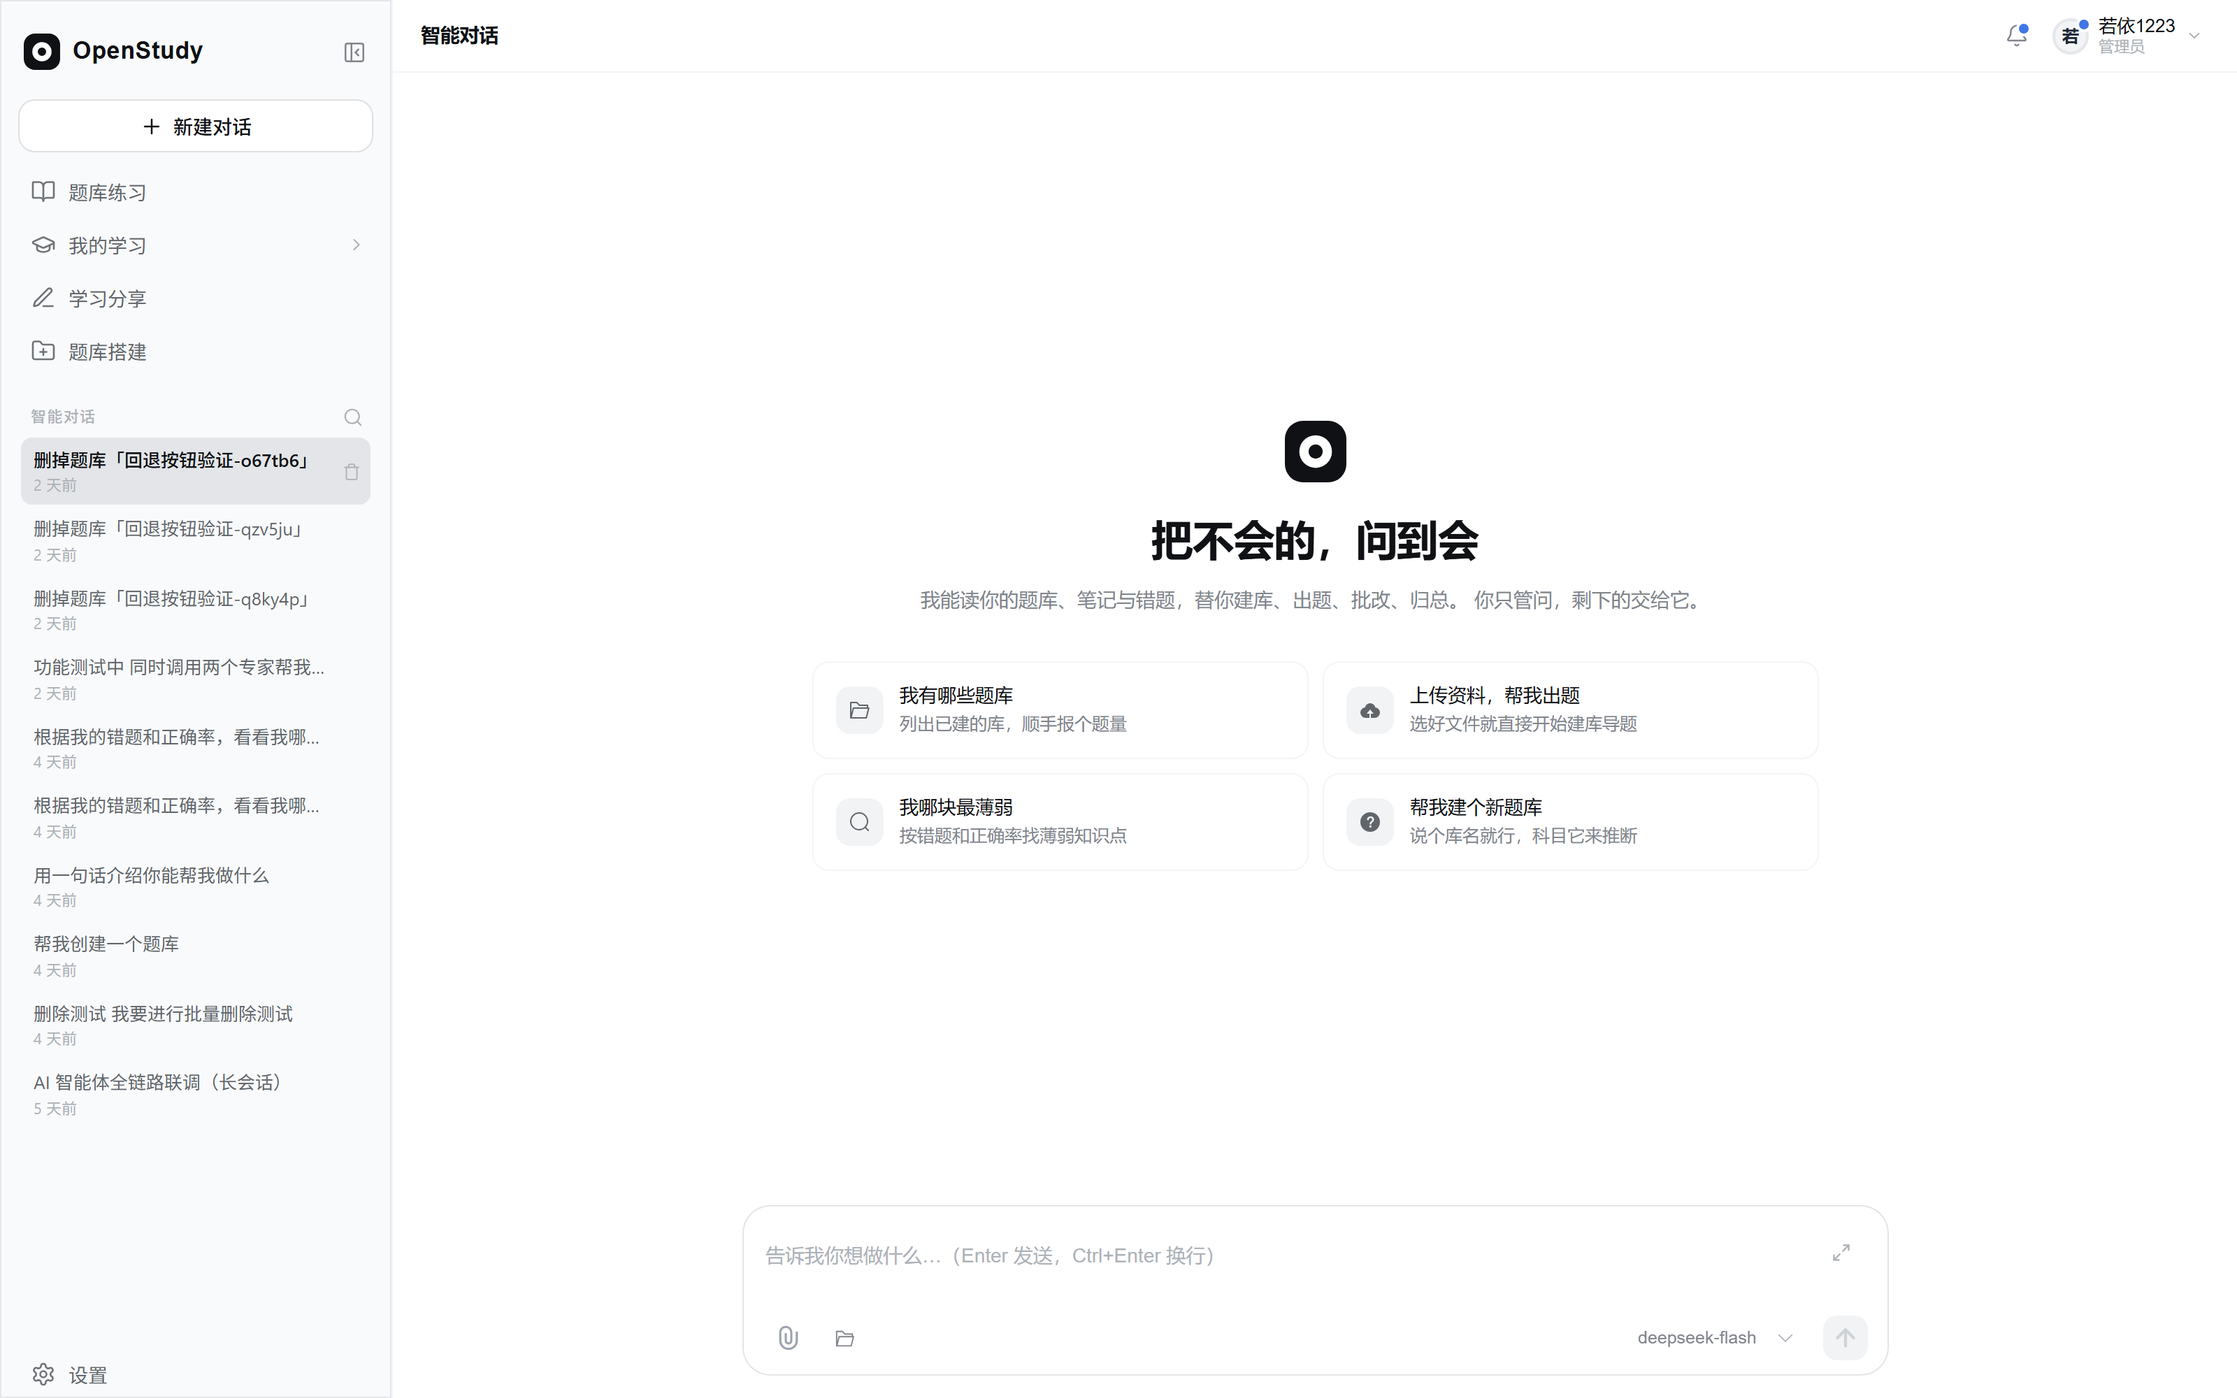
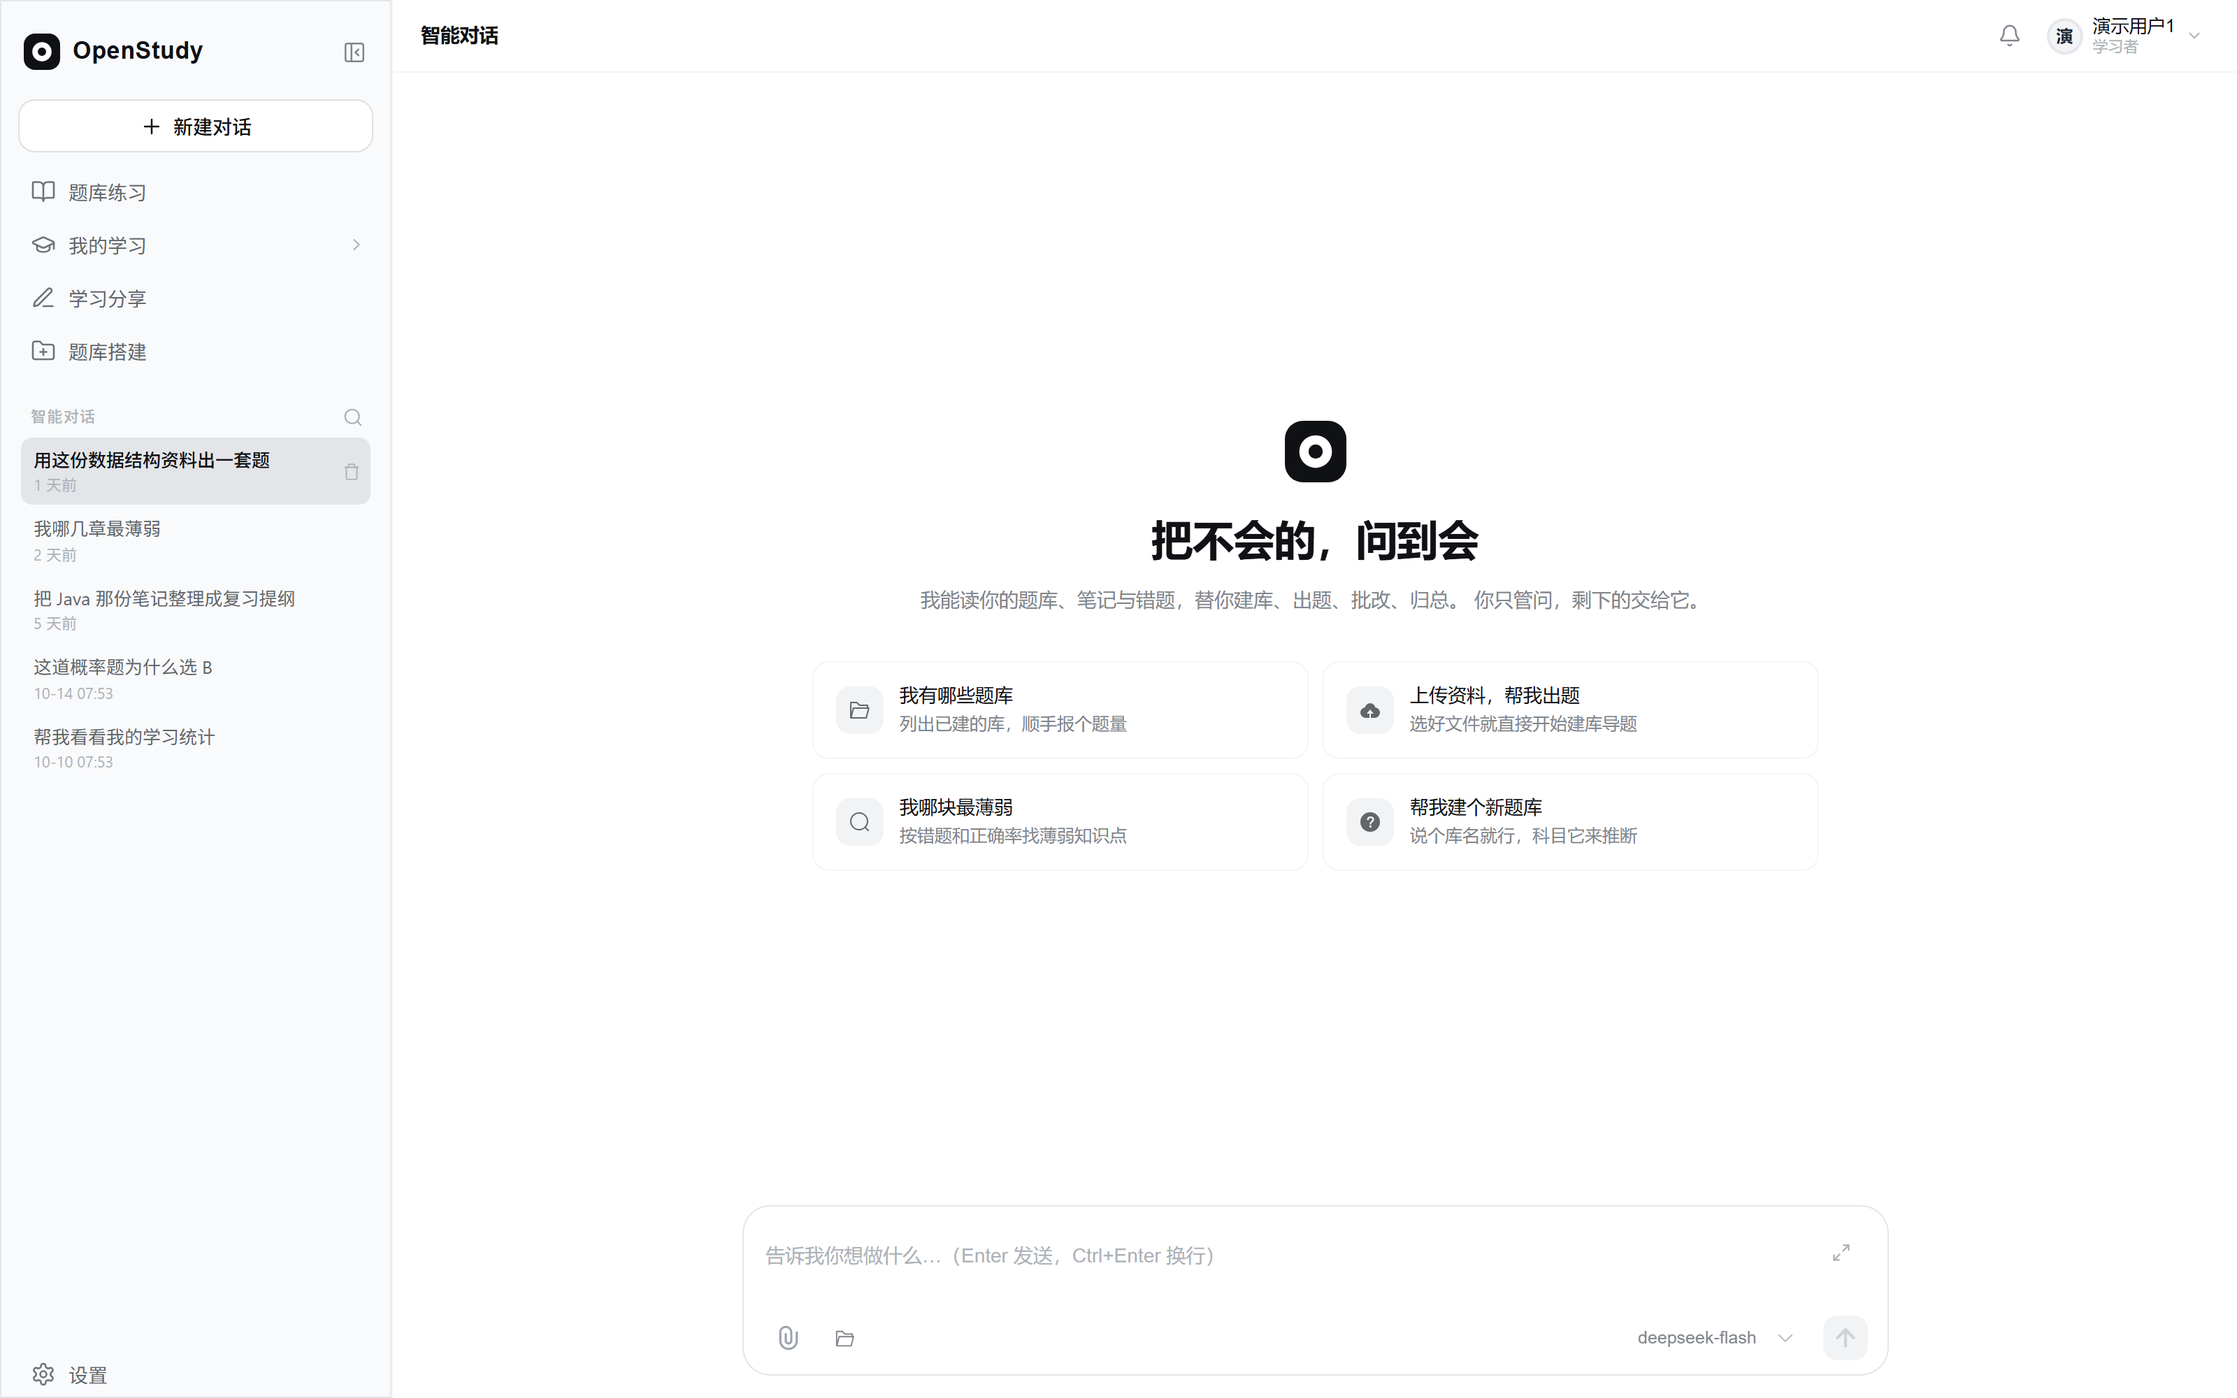
docs: 统一演示账号密码与文档措辞
- 演示账号初始密码统一为 123456（仅本地体验用，正式部署须改）
- README 区分「本地部署」与「公网体验」两种获取方式
- 公网环境不提供演示账号，用户自行注册
- 更新产品截图（演示用户视角，无测试数据）
- 数据库会话与题库命名规范化，清理测试残留

diff --git a/openstudy-vue3-ts/src/views/auth.vue b/openstudy-vue3-ts/src/views/auth.vue
@@ -248,7 +248,7 @@ const loginRules = {
 const codeUrl = ref("");
 const loading = ref(false);
 const captchaEnabled = ref(true);
-// 演示模式：true=显示「演示账号一键登录」入口（自用/答辩）；false=上线体验版，
+// 演示模式：true=显示「演示账号一键登录」入口（自用/演示）；false=上线体验版，
 // 默认走账号密码登录/注册，不暴露演示账号。由后端 /captchaImage 的 demoMode 下发。
 // ⚠ 初始值取 false（安全优先）：接口返回前先按「体验版」渲染，避免闪出一键登录入口。
 const demoMode = ref(false);

diff --git a/openstudy-vue3-ts/src/views/admin/dashboard.vue b/openstudy-vue3-ts/src/views/admin/dashboard.vue
@@ -17,7 +17,7 @@
                     </el-tag>
                 </div>
                 <div class="demo-mode-desc">
-                    开启：登录页显示「演示账号 · 一键登录」入口（自己答辩/演示用）。<br />
+                    开启：登录页显示「演示账号 · 一键登录」入口（自己演示用）。<br />
                     关闭：登录页直接走账号密码登录 / 注册，隐藏演示账号（上线给别人体验用）。
                 </div>
             </div>

diff --git a/openstudy-fastapi/app/api/v1/auth.py b/openstudy-fastapi/app/api/v1/auth.py
@@ -53,7 +53,7 @@ async def captcha_image(db: AsyncSession = Depends(get_db)):
     captcha_config = config_result.scalar_one_or_none()
     captcha_enabled = captcha_config.config_value.lower() == "true" if captcha_config else True
 
-    # 演示模式开关：true=保留「演示账号一键登录」入口（自用/答辩）；
+    # 演示模式开关：true=保留「演示账号一键登录」入口（自用/演示）；
     # false=上线体验版，登录页默认走账号密码登录/注册，不暴露演示账号。
     # ⚠ 与 `/quickLogin` 共用 `_demo_mode_enabled`，避免「前端藏了按钮、接口却仍放行」。
     demo_mode = await _demo_mode_enabled(db)

diff --git a/openstudy-fastapi/tests/_probe_rag_chunks_images.py b/openstudy-fastapi/tests/_probe_rag_chunks_images.py
@@ -44,7 +44,7 @@ def main():
         checks.append((cid, title, cond, actual))
         print(f"  [{'通过' if cond else '失败'}] {cid} {title}" + (f" | {actual}" if not cond else ""))
 
-    st, body = _req("POST", "/login", body={"username": "admin", "password": "***REMOVED***"})
+    st, body = _req("POST", "/login", body={"username": "admin", "password": "123456"})
     token = body.get("data", {}).get("token")
     ck("CI-01", "登录成功", bool(token))
 

diff --git a/openstudy-fastapi/tests/_probe_kb_question_e2e.py b/openstudy-fastapi/tests/_probe_kb_question_e2e.py
@@ -51,7 +51,7 @@ def main():
         checks.append((cid, title, cond, actual))
         print(f"  [{'通过' if cond else '失败'}] {cid} {title}" + (f" | {actual}" if not cond else ""))
 
-    st, body = _req("POST", "/login", body={"username": "admin", "password": "***REMOVED***"})
+    st, body = _req("POST", "/login", body={"username": "admin", "password": "123456"})
     token = body["data"]["token"]
     ck("E-01", "登录成功", bool(token))
 

diff --git a/openstudy-fastapi/tests/_probe_rag_image_store.py b/openstudy-fastapi/tests/_probe_rag_image_store.py
@@ -115,7 +115,7 @@ def main():
         checks.append((cid, title, cond, actual))
         print(f"  [{'通过' if cond else '失败'}] {cid} {title}" + (f" | {actual}" if not cond else ""))
 
-    st, body = _post("/login", body={"username": "admin", "password": "***REMOVED***"})
+    st, body = _post("/login", body={"username": "admin", "password": "123456"})
     token = body["data"]["token"]
     ck("IMG-01", "登录成功", bool(token))
 

diff --git a/openstudy-fastapi/tests/_probe_rag_image_to_model.py b/openstudy-fastapi/tests/_probe_rag_image_to_model.py
@@ -100,7 +100,7 @@ def main():
         checks.append((cid, title, cond, actual))
         print(f"  [{'通过' if cond else '失败'}] {cid} {title}" + (f" | {actual}" if not cond else ""))
 
-    st, body = _post("/login", body={"username": "admin", "password": "***REMOVED***"})
+    st, body = _post("/login", body={"username": "admin", "password": "123456"})
     token = body["data"]["token"]
     ck("Z-01", "登录成功", bool(token))
 

diff --git a/openstudy-fastapi/seed_demo_users.py b/openstudy-fastapi/seed_demo_users.py
@@ -1,6 +1,6 @@
 """演示数据初始化脚本（幂等，可重复执行）
 
-用途：功能演示 / 答辩演示时，快速准备两个普通用户、一个只读游客和一个管理员的演示环境。
+用途：功能演示时，快速准备两个普通用户、一个只读游客和一个管理员的演示环境。
 
 执行：
     cd openstudy-fastapi

diff --git a/README.md b/README.md
@@ -35,7 +35,7 @@ Word/PDF/MD    拆段落·认公式·抠图片    变成题库·标注出处    
 **它不是一个聊天框。** 对话里的每个动作都调用真实工具、写真实数据表——
 你说"用这份资料建个题库，出 10 道题"，它真的会建出来，你能点进去刷。
 
-> 📖 四步各做了什么、代码在哪、答辩怎么讲 → **[doc/CORE-FLOW.md](doc/CORE-FLOW.md)**
+> 📖 四步各自做了什么、代码在哪 → **[doc/CORE-FLOW.md](doc/CORE-FLOW.md)**
 
 ---
 
@@ -103,23 +103,20 @@ Word/PDF/MD    拆段落·认公式·抠图片    变成题库·标注出处    
 ## AI 智能体：会办事，不只是会聊
 
 <p align="center">
-  <img src="doc/screenshots/judge-1-chat.png" width="820" alt="两位专家并行建库 + 写题">
+  <img src="doc/screenshots/02-agent-session.png" width="820" alt="对话式建题库：从资料到 20 道题">
 </p>
 
 - **多专家并行**：一句话要干两件事，两个专家同时开工；只有一件事就不打扰你
-- **写操作先确认**：改数据之前弹确认卡，看清楚再点（下图）
-
-<p align="center">
-  <img src="doc/screenshots/05-write-confirm.png" width="760" alt="写操作二次确认">
-</p>
-
+- **写操作先确认**：改数据之前弹确认卡，看清楚再点
 - **改错能撤回**：题库、题目、分享、智能体四个域支持整树快照恢复；回退不了的会明确告诉你
 - **跨会话记忆**：记住你做过的操作，下次接着聊
 - **14 个工具**：题库管理、题目管理、笔记、知识库、检索、学情统计、记忆、导出…
 
 ---
 
-## 30 秒跑起来
+## 快速开始
+
+### 方式一：本地部署（Docker，推荐自建）
 
 ```bash
 git clone https://gitcode.com/qi142410131/openstudy-fastapi-ts.git
@@ -127,17 +124,27 @@ cd openstudy-fastapi-ts
 docker compose up -d --build
 ```
 
-浏览器打开 **http://localhost:3167**，登录页点「一键登录」即可。
+浏览器打开 **http://localhost:3167**。
+
+**本地部署的演示账号**（数据库首次启动自动创建）：
 
 | 账号 | 密码 | 说明 |
 |---|---|---|
-| `user1` | `***REMOVED***` | 演示用户，带题库 / 笔记 / 学习统计 |
-| `user2` | `***REMOVED***` | 分享接收方 |
+| `admin` | `123456` | 管理员，可进后台 |
+| `user1` | `123456` | 演示用户，带题库 / 笔记 / 学习统计 |
+| `user2` | `123456` | 分享接收方 |
 | `guest` | 免密一键登录 | 只读游客 |
-| `admin` | `***REMOVED***` | 管理员（可进后台） |
 
-> 以上为**演示账号**，仅用于体验与评审。正式部署请到「系统管理 → 用户管理」改密码，
-> 并同步修改 `deploy/db-init/05_change_password.sql`。
+> ⚠ 以上密码**仅适用于本地自建环境**，且仅用于快速体验。
+> **正式对外部署前必须修改**：改 `deploy/db-init/05_change_password.sql` 里的初始密码，
+> 并同步修改 `openstudy-fastapi/.env` 的 `JWT_SECRET`。
+
+### 方式二：公网体验环境
+
+公网演示环境**不提供任何账号密码**——请自行**注册**后登录体验。
+
+> 出于安全考虑，线上环境不开放演示账号，也不对外公布任何凭据。
+> 注册后你会得到一个独立账号，可以完整走通「上传资料 → 自动解析 → 建题库 → 刷题」全流程。
 
 > 数据库首次启动会自动建表 + 导种子数据，无需手动操作。
 > **不配 AI Key 也能跑**——除 AI 对话和知识库外，其余功能全部可用。
@@ -207,7 +214,7 @@ openstudy-fastapi-ts/
 │   ├── deploy/                 # 部署说明
 │   ├── dev-process/            # 开发过程记录（码道）
 │   ├── testing/                # 接口测试用例
-│   └── competition/            # 参赛材料
+│   └── competition/            # 项目材料
 └── docker-compose.yml          # 一键部署
 ```
 

diff --git a/doc/dev-process/memory/project-gitcode-publish-status.md b/doc/dev-process/memory/project-gitcode-publish-status.md
@@ -52,7 +52,7 @@ from: Agent
 - 用户被问及是否把 README 也补推到 `delivery` 分支。
 
 **追加发布（2026-10-09）：README + .env.example 到 main**
-- 新增根目录 `README.md`（基于实际代码结构、运行方式与配置说明，**脱敏**，用环境变量占位）——对应赛事"说明运行方式便于复现"的要求。
+- 新增根目录 `README.md`（基于实际代码结构、运行方式与配置说明，**脱敏**，用环境变量占位）——说明运行方式，便于他人复现。
 - README 引用了 `.env.example` 但该文件原本不存在；已创建 `openstudy-fastapi/.env.example`（全部脱敏样例，键名从 `config.py` 提取：JWT、Redis 等），使 README 指引成立且利公开仓。
 - 执行方式：**继续用 git worktree**（目标目录 `../fastapi-v2-mainclean`）从远程 `main` 检出，在其上添加 README + `.env.example` 并推送，**不碰当前 `delivery` 工作区**（其仍有 59 个历史遗留修改）。
 - 在 `delivery` 分支时工作区为脏状态，故避免直接在该工作区操作。
@@ -105,5 +105,5 @@ from: Agent
 
 **指挥家模式已推送到 main（2026-10-09，✅）：** 指挥家模式（Orchestrator+子代理，11 文件）经 worktree 提交 `8e08bb6` 并推送 main：推送区间 `dc25db6..8e08bb6`、GitCode hook PASSED；推送后已清理 worktree 与临时文件，并核对远程 main = `8e08bb6`、无残留。**当前远程 main tip = `8e08bb6`。**
 
-**Why:** 赛事要求代码上传 GitCode 公开仓，公开即永久，须在推送前守住敏感边界并确认文档取舍；`delivery` 工作区存在大量与本次建仓无关的历史改动，直接在该工作区提交并推 main 会污染公开历史。
+**Why:** 代码上传 GitCode 公开仓，公开即永久，须在推送前守住敏感边界并确认文档取舍；`delivery` 工作区存在大量与本次建仓无关的历史改动，直接在该工作区提交并推 main 会污染公开历史。
 **How to apply:** 继续此任务时，在 `../fastapi-v2-mainclean` worktree 内基于 main 提交清理并推送；切勿把 `delivery` 的 59 个历史遗留修改混入；确认交接文档是否排除；推送完成后提醒吊销令牌。

diff --git a/doc/deploy/SKILL.md b/doc/deploy/SKILL.md
@@ -43,7 +43,7 @@ docker --version && docker compose version
 ### A.2 拉取代码并一键启动
 
 ```bash
-git clone https://gitcode.com/qi142410131/openstudy-fastapi-ts.git
+git clone https://gitcode.com/123456/openstudy-fastapi-ts.git
 cd openstudy-fastapi-ts
 
 # 可选：配置 AI Key（不填则 AI 功能不可用，其余功能正常）
@@ -378,12 +378,12 @@ psql -U root -d openstudy_v2_pgsql -c "SELECT extname FROM pg_extension WHERE ex
 
 | 账号 | 密码 | 说明 |
 |---|---|---|
-| `admin` | `***REMOVED***` | 管理员（可进后台） |
-| `user1` | `***REMOVED***` | 普通用户，带 **2 个演示题库**（10 题 + 8 题）+ 学习统计/错题/收藏/笔记 |
-| `user2` | `***REMOVED***` | 普通用户（分享接收方） |
+| `admin` | `123456` | 管理员（可进后台） |
+| `user1` | `123456` | 普通用户，带 **2 个演示题库**（10 题 + 8 题）+ 学习统计/错题/收藏/笔记 |
+| `user2` | `123456` | 普通用户（分享接收方） |
 | `guest` | 免密（一键登录） | 只读游客 |
 
-> ⚠ **密码由 `05_change_password.sql` 统一改为强密码**（默认 `***REMOVED***`）。
+> ⚠ **密码由 `05_change_password.sql` 统一改为强密码**（默认 `123456`）。
 > 想换密码：跑 `python -c "from app.core.security import hash_password; print(hash_password('新密码'))"`
 > 生成 bcrypt 哈希，替换该 SQL 里的值（或直接在数据库里 UPDATE）。
 >
@@ -395,7 +395,7 @@ psql -U root -d openstudy_v2_pgsql -c "SELECT extname FROM pg_extension WHERE ex
 
 | 值 | 登录页表现 | 适用 |
 |---|---|---|
-| `true`（默认） | 显示「演示账号 · 一键登录」入口 | 自己答辩/自用 |
+| `true`（默认） | 显示「演示账号 · 一键登录」入口 | 自己演示/自用 |
 | `false` | **直接显示账号密码登录 / 注册**，不暴露演示账号 | 上线给别人体验 |
 
 切换：管理员登录后台 →「系统管理 → 参数设置」→ 搜索「演示模式」→ 改值（即时生效，无需重启）。

diff --git a/doc/dev-process/README.md b/doc/dev-process/README.md
@@ -32,7 +32,7 @@
 
 **已做的脱敏**（不改变内容语义）：
 - 本地绝对路径替换为 `<PROJECT>` / `<TOOLHOME>` / `<USERHOME>`；
-- 含赛事 / 评审等无关内容的行替换为 `<本行内容已按隐私策略省略>`（共 5 行）；
+- 含内部讨论等无关内容的行替换为 `<本行内容已按隐私策略省略>`（共 5 行）；
 - 疑似密钥替换为 `<SECRET>`（共 231 处）。
 
 > 说明：日志本身**不含对话正文**，只有事件与摘要字段。之所以仍有上述脱敏，
@@ -88,7 +88,7 @@
 
 **已做的脱敏**：
 - 项目的本地绝对路径替换为 `<PROJECT>`；
-- 5 个文件因涉及赛事材料准备被整份排除（见下）；另有 14 个文件因内容涉及
+- 5 个文件因涉及内部资料准备被整份排除（见下）；另有 14 个文件因内容涉及
   同类话题被排除。**排除的这 19 个文件不在本目录内。**
 
 ---
@@ -99,7 +99,7 @@
 
 **这是什么**：开发工具的代码库索引库（`file-index.db`）的可读摘要。
 
-**为什么交摘要而不是原始库**：原始库是 564 KB 的 SQLite 二进制，评审无法直接阅读。
+**为什么交摘要而不是原始库**：原始库是 564 KB 的 SQLite 二进制，无法直接阅读。
 摘要里给出了登记文件数、目录分布、类型分布等可核对的信息。
 
 > ⚠ **这份记录有局限，要说清楚**：
